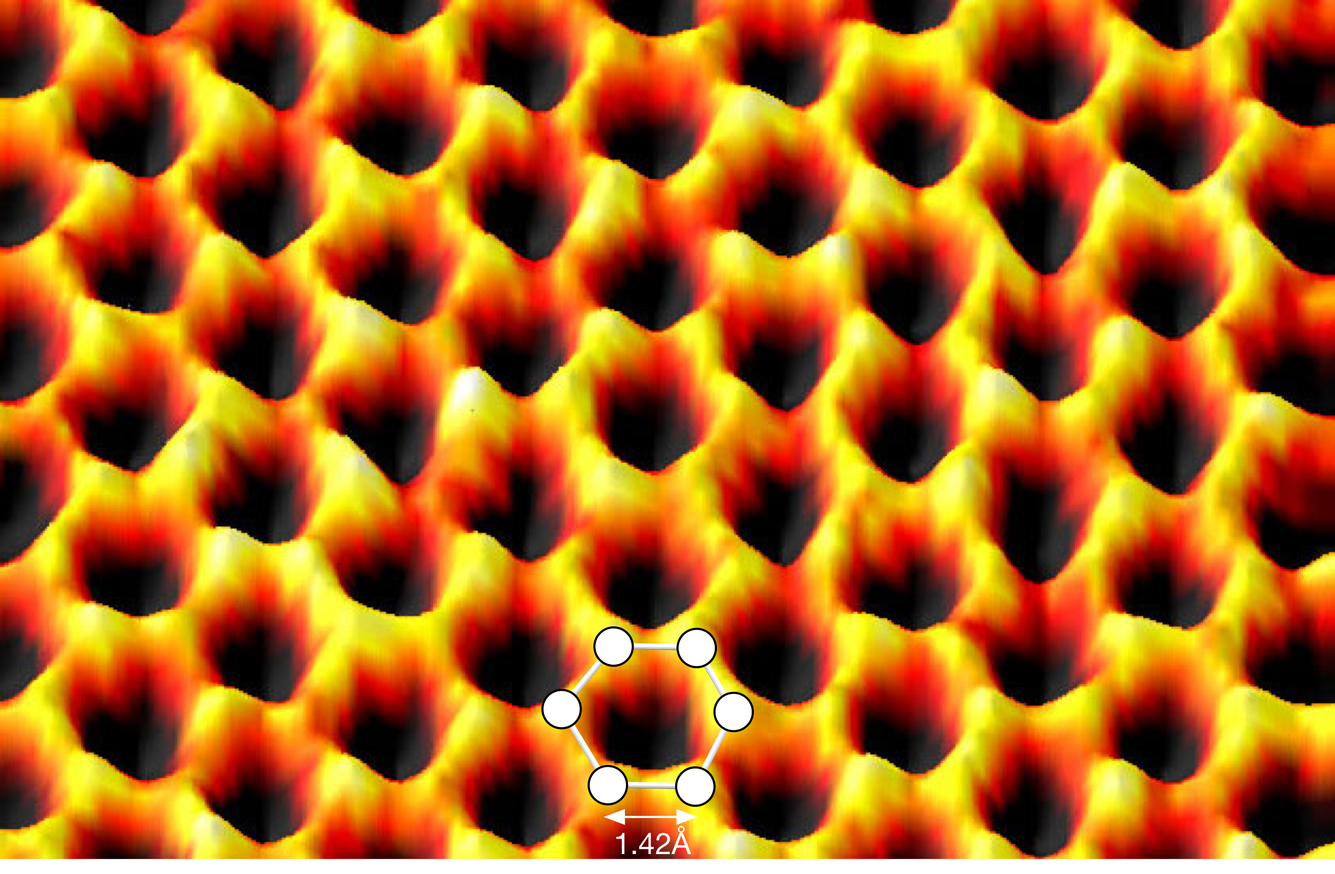
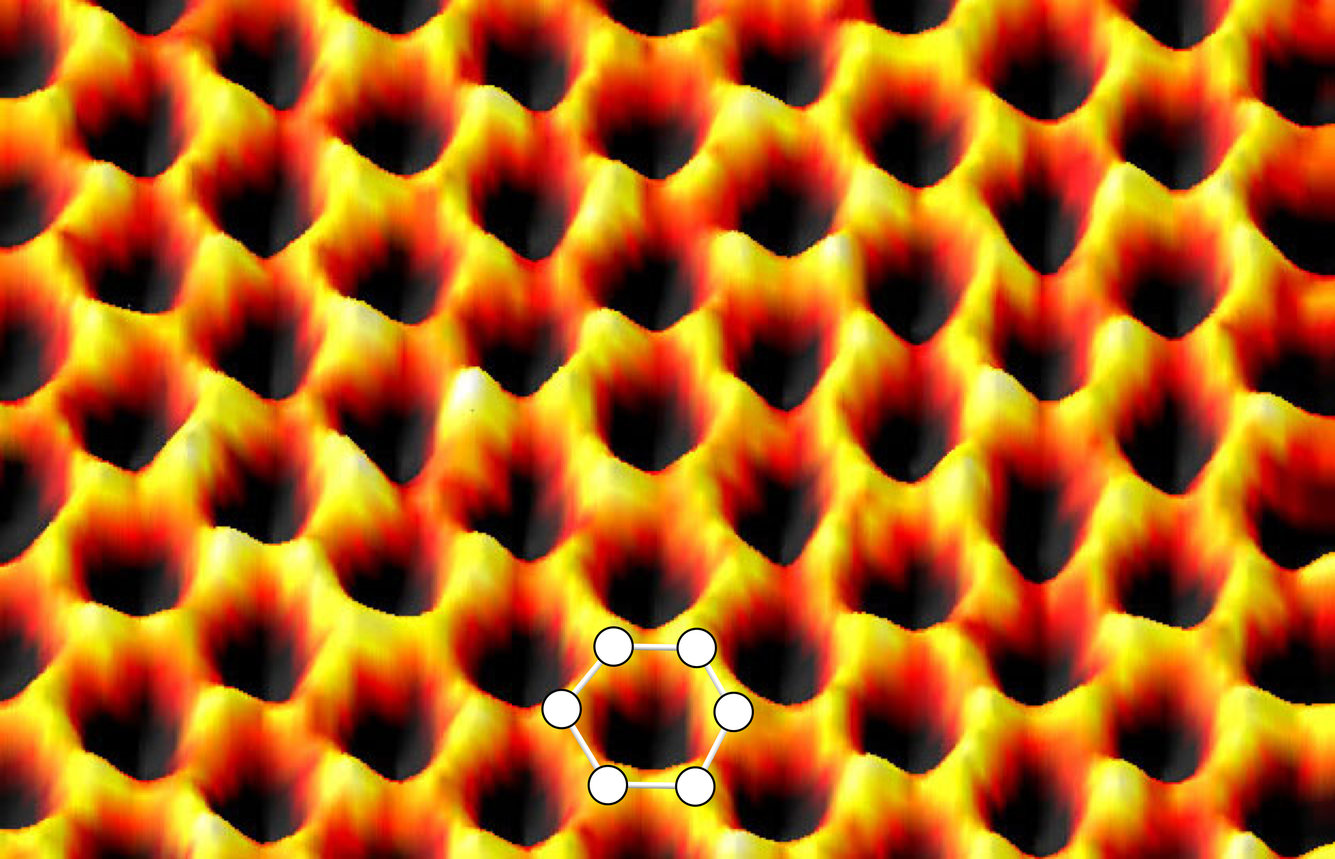
add missing captions

diff --git a/pages/1_theoretical_basis/11_basic_properties_of_graphene.tex b/pages/1_theoretical_basis/11_basic_properties_of_graphene.tex
@@ -5,11 +5,11 @@ Graphene is an example of a two dimensional hexagon atom structure (also called 
 \subsubsection{Graphene Grid}
 \begin{figure}[!h]
   \centering
-  \includegraphics[width=0.5\textwidth]{./images/graphene-spm.png}
-  \caption{Graphene's two dimensional hexagonal structure as seen through scanning probe microscopy (adapted from \mcite).}
+  \includegraphics[width=0.7\textwidth]{./images/graphene-spm.png}
+  \caption{Graphene's two dimensional hexagonal structure as seen through scanning probe microscopy. The distance between two atoms is about \SI{1.42}{\angstrom} (adapted from \mcite).}
 \end{figure}
 
-Graphene is a two dimensional allotrope of carbon where atoms are densely packed in a hexagonal pattern with a distance of about 1.42Å. Each sp$^2$-hybridized carbon atom has a covalent $\sigma$-bond to three other carbon atoms.
+Graphene is a two dimensional allotrope of carbon where atoms are densely packed in a hexagonal pattern with a distance of about \SI{1.42}{\angstrom}. Each sp$^2$-hybridized carbon atom has a covalent $\sigma$-bond to three other carbon atoms.
 
 \begin{figure}[!h]
   \centering
@@ -20,7 +20,7 @@ Graphene is a two dimensional allotrope of carbon where atoms are densely packed
   \begin{subfigure}{0.45\textwidth}
     \includegraphics[width=\textwidth]{./images/k-cell.png}
   \end{subfigure}
-  \caption{\textbf{(a)} The basis vectors $\mathbf{a}_1$ and $\mathbf{a}_2$ build a triangular Bravais lattice with a two atom-basis. The Wigner-Seitz cell is shaded in gray (adapted from \mcite). \textbf{(b)} The reciprocal lattice points to the hexagonal grid of the two atom base grid. The unit cell is shaded in gray, $\Gamma$ is the cell's center; $K\_+$, $K\_-$ and $M$ are highly symmetric points (adapted from \mcite).}
+  \caption{\textbf{(a)} The basis vectors $\mathbf{a}_1$ and $\mathbf{a}_2$ build a triangular Bravais lattice with a two atom-basis. The Wigner-Seitz cell is shaded in gray (adapted from \mcite). \textbf{(b)} The reciprocal lattice points to the hexagonal grid of the two atom base grid. The unit cell is shaded in gray, $\Gamma$ is the cell's center; $K_+$, $K_-$ and $M$ are highly symmetric points (adapted from \mcite).}
 \end{figure}
 
 \begin{figure}[!h]

diff --git a/pages/1_theoretical_basis/13_general_raman_spectroskopy.tex b/pages/1_theoretical_basis/13_general_raman_spectroskopy.tex
@@ -9,7 +9,7 @@
   \begin{subfigure}{0.45\textwidth}
     \includegraphics[width=\textwidth]{./images/graphene-raman.png}
   \end{subfigure}
-  \caption{\textbf{(a)} Calculated phonon dispersion relation of graphene along the $\Gamma$-$K$-$M$-$\Gamma$-direction with six phonon branches (Figure adapted from Malard et al. 2009\mcite). \textbf{(b)} (adapted from \mcite).}
+  \caption{\textbf{(a)} Calculated phonon dispersion relation of graphene along the $\Gamma$-$K$-$M$-$\Gamma$-direction with six phonon branches (Figure adapted from Malard et al. 2009\mcite). \textbf{(b)} The Raman spectrum of graphene showing the $D$, $G$ and $2D$ modes.(adapted from \mcite, \note{add new image here}).}
 \end{figure}
 
 \begin{figure}[!h]
@@ -36,8 +36,11 @@
   \begin{subfigure}{0.45\textwidth}
     \includegraphics[width=\textwidth]{./images/2d-mode.png}
   \end{subfigure}
-  \caption{\textbf{(a)} \textbf{(b)} }
+  \caption{Raman scattering processes for the $G$ and $2D$ peak of graphene. The band structure close to the K points is approximated as cones. \textbf{(a)} A photon is absorbed (blue arrow), scatters with a phonon (dashed arrow) and then is emitted with a lower frequency (red arrow), causing the $G$ peak in graphenes Raman spectrum. \textbf{(b)} A photon is absorbed (blue arrow), then scatters with two phonons (dashed arrows) and is emitted at a lower frequency (red arrow). This is the most prominent feature of graphene's Raman spectrum. \note{redraw this without forbidden transitions}}
 \end{figure}
+
+\null\newpage
+\null\newpage
 
 \subsubsection{Electromagnetic Enhancement Theory}
 
